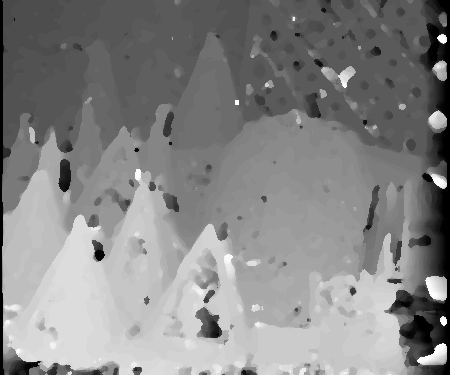
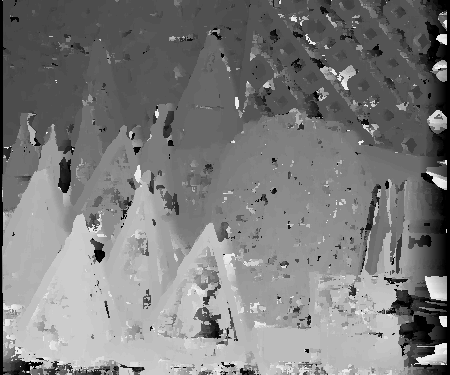
fixing scale factor

diff --git a/disparity_map.cpp b/disparity_map.cpp
@@ -4,14 +4,22 @@
 #include <iostream>
 #include <ctime>
 // Best result SAD with Window = 7
-#define WINDOW_SIZE 9
-#define DISPARITY_INTERVAL 59
-#define SET "cones"
-#define METHOD "ncc"
+#define WINDOW_SIZE 3
+#define DISPARITY_INTERVAL 15
+// Interval
 //TEDDY 59
 //CONES 59
 //VENUS 19
 //TSUKUBA 15
+
+#define SET "tsukuba"
+#define METHOD "ssd"
+#define SCALE 16
+// Scale
+//TEDDY 4
+//CONES 4
+//VENUS 8
+//TSUKUBA 16
 
 std::string IMAGES_PATH =  "/Users/rafael/Projects/python-mosaic/stereo/";
 
@@ -233,7 +241,7 @@ int main(int argc, char** argv) {
 			cv::Point currentPosition = cv::Point(column, row);
 			cv::Point bestMatch = getBestMatch(currentPosition);
 			float disparity = distanceBetween(currentPosition, bestMatch);
-			output.at<uchar>(row, column) = disparity;
+			output.at<uchar>(row, column) = disparity * SCALE;
 //			std::cout << "\nDisparity Found: " << disparity << " Image value: " << output.at<uchar>(row, column);
 
 			if(disparity > maxValue) {
@@ -248,12 +256,12 @@ int main(int argc, char** argv) {
 	std::cout << "\nImage min value: " << minValue << "\nImage max value: " << maxValue << "\n";
 
 	// Normalizing image
-	for (row = 0; row < outputSize.height; row++) {
-		for (column = 0; column < outputSize.width; column++) {
-			float value = ((((float)output.at<uchar>(row, column) - (float)minValue)) / (float) maxValue) * 255.0;
-			output.at<uchar>(row, column) = (int)value;
-		}
-	}
+//	for (row = 0; row < outputSize.height; row++) {
+//		for (column = 0; column < outputSize.width; column++) {
+//			float value = ((((float)output.at<uchar>(row, column) - (float)minValue)) / (float) maxValue) * 255.0;
+//			output.at<uchar>(row, column) = (int)value;
+//		}
+//	}
 	std::cout << "\n";
 	// End image normalization
 
